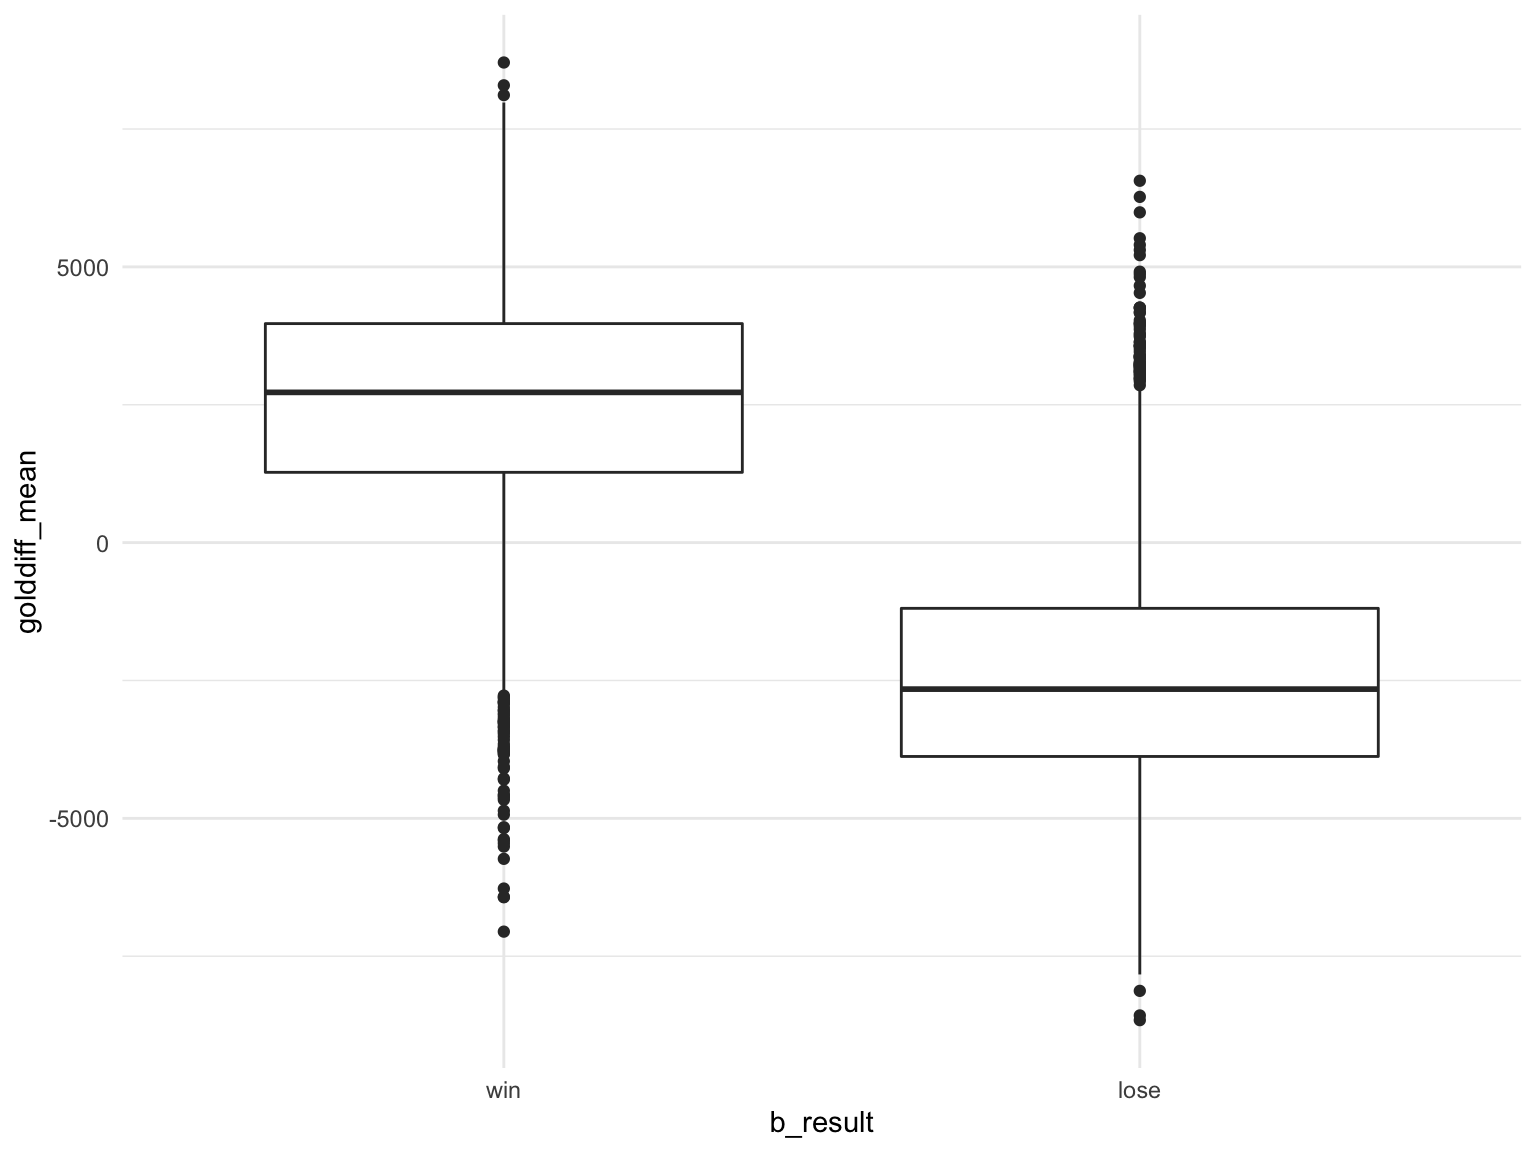
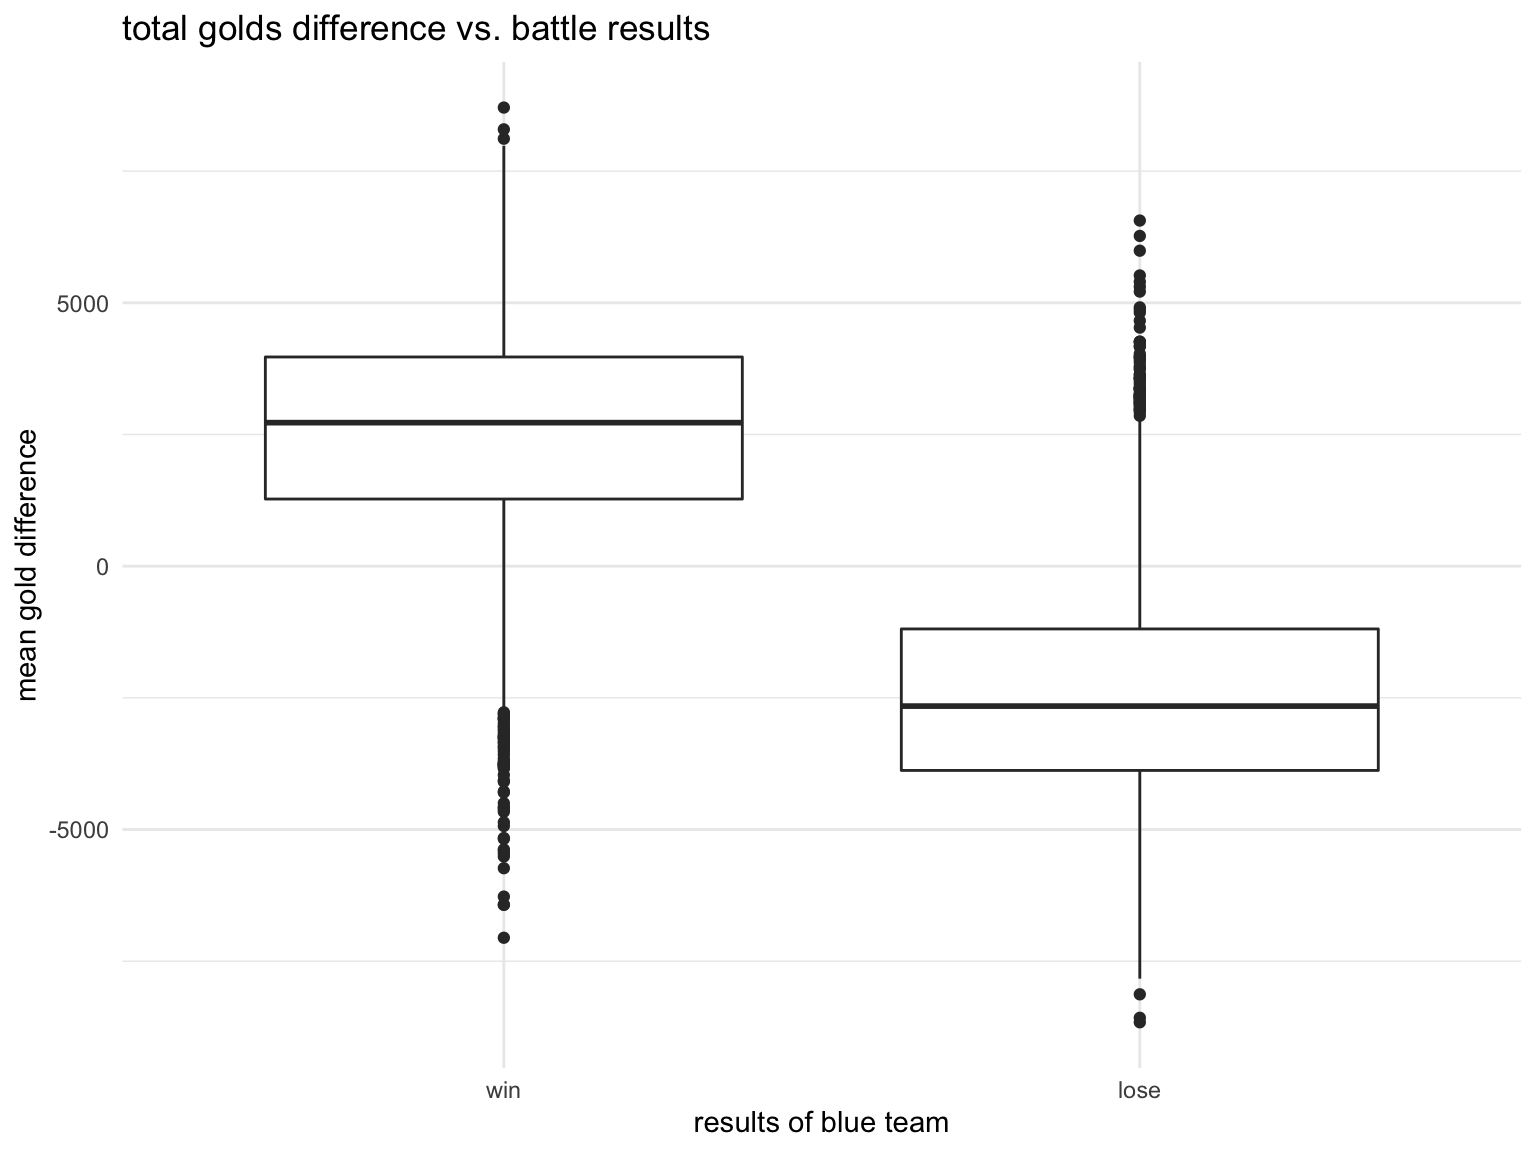
polish the plots

diff --git a/data_source.html b/data_source.html
@@ -429,9 +429,13 @@ div.tocify {
 <p>some visualizations</p>
 <pre class="r"><code>merge_file %&gt;% 
   ggplot(aes(x = b_result, y = outer_mean_diff)) + 
-  geom_boxplot()</code></pre>
+  geom_boxplot() +
+  labs(
+    title = &quot;time length of destroying enemy&#39;s towers vs. battle reuslts&quot;, 
+    x = &quot;results of blue team&quot;,
+    y = &quot;mean time difference of destroying towers&quot;
+  )</code></pre>
 <p><img src="data_source_files/figure-html/unnamed-chunk-5-1.png" width="90%" /></p>
-<p>bTower means the mean time blue team destroy enemy’s outer towers among three lanes, rTower means the mean time red team destroy enemy’s outer towers among three lanes. We care about the impact of different of mean time between two groups. from the plot, we can see that if bTower is smaller than rTower (meaning that blue teams destroy red teams’ outer tower faster) there will be a higher win rate among blue teams</p>
 </div>
 <div id="read-and-clean-the-gold-data" class="section level2">
 <h2>read and clean the gold data</h2>
@@ -460,9 +464,13 @@ gold_ave =
 <pre class="r"><code>merge_file = left_join(merge_file, gold_ave, by = &quot;address&quot;)</code></pre>
 <pre class="r"><code>merge_file %&gt;% 
   ggplot(aes(x = b_result, y = golddiff_mean)) + 
-  geom_boxplot()</code></pre>
+  geom_boxplot() +
+  labs(
+    title = &quot;total golds difference vs. battle results&quot;,
+    x = &quot;results of blue team&quot;, 
+    y = &quot;mean gold difference&quot;
+  )</code></pre>
 <p><img src="data_source_files/figure-html/unnamed-chunk-8-1.png" width="90%" /></p>
-<p>The figure above shows the average gold difference across the whole game when blue team wins and blue team loses. The gold difference is calculated by the total gold of blue team minus that of red team in every minutes of the game. As we expected, the average mean of gold difference should be higher when blue team wins the game.</p>
 </div>
 <div id="read-and-clean-the-neutral-kills-data" class="section level2">
 <h2>read and clean the neutral kills data</h2>

diff --git a/visualization.html b/visualization.html
@@ -378,10 +378,11 @@ div.tocify {
 
 
 <p><img src="outer_mean_diff.png" /></p>
-<p>Variable outer_mean_diff represents the difference of average time destroying the enemy’s three outer towes between blue and red team (i.e. outer_mean_diff = average time blue team used - average time red team used). And vairable b_result, encoded as win versus lose, represents the battle results of the blue team. From the boxplot above, we expect that the blue team has a greater chance to win the game when the difference is negative, meaning the blue team takes less average time to destory the red team’s outer towers.</p>
+<p>Variable outer_mean_diff represents the difference of average time destroying the enemy’s three outer towers between blue and red team (i.e. outer_mean_diff = average time blue team used - average time red team used). And vairable b_result, encoded as win versus lose, represents the battle results of the blue team. From the boxplot above, we expect that the blue team has a greater chance to win the game when the difference is negative, meaning the blue team takes less average time to destory the red team’s outer towers.</p>
 <p><img src="gold_diff.png" /></p>
 <p>Variable golddiff_mean represents the average monetary difference in every minute during the game between blue and red team (blue-red). From the boxplot, we expect that the blue team has a greater chance to win when the team has more golds in average.</p>
 <p><img src="kills_diff.png" /></p>
+<p>Variable</p>
 <p><img src="monster_diff.png" /></p>
 
 

diff --git a/index.html b/index.html
@@ -391,8 +391,9 @@ div.tocify {
 <div id="data" class="section level1">
 <h1>Data</h1>
 <ul>
-<li><strong>League of Legends match data</strong> We used <a href="https://www.kaggle.com/chuckephron/leagueoflegends">League of Legends competitive matches dataset</a> to obtain matches data between 2015 to 2018 from <a href="https://www.kaggle.com/">kaggle</a>, a data modeling and data analysis competition platform.</li>
+<li><strong>League of Legends match data</strong></li>
 </ul>
+<p>We used <a href="https://www.kaggle.com/chuckephron/leagueoflegends">League of Legends competitive matches dataset</a> to obtain matches data between 2015 to 2018 from <a href="https://www.kaggle.com/">kaggle</a>, a data modeling and data analysis competition platform.</p>
 <div id="important-indicators-and-explanations" class="section level2">
 <h2>Important Indicators and Explanations</h2>
 <ul>
